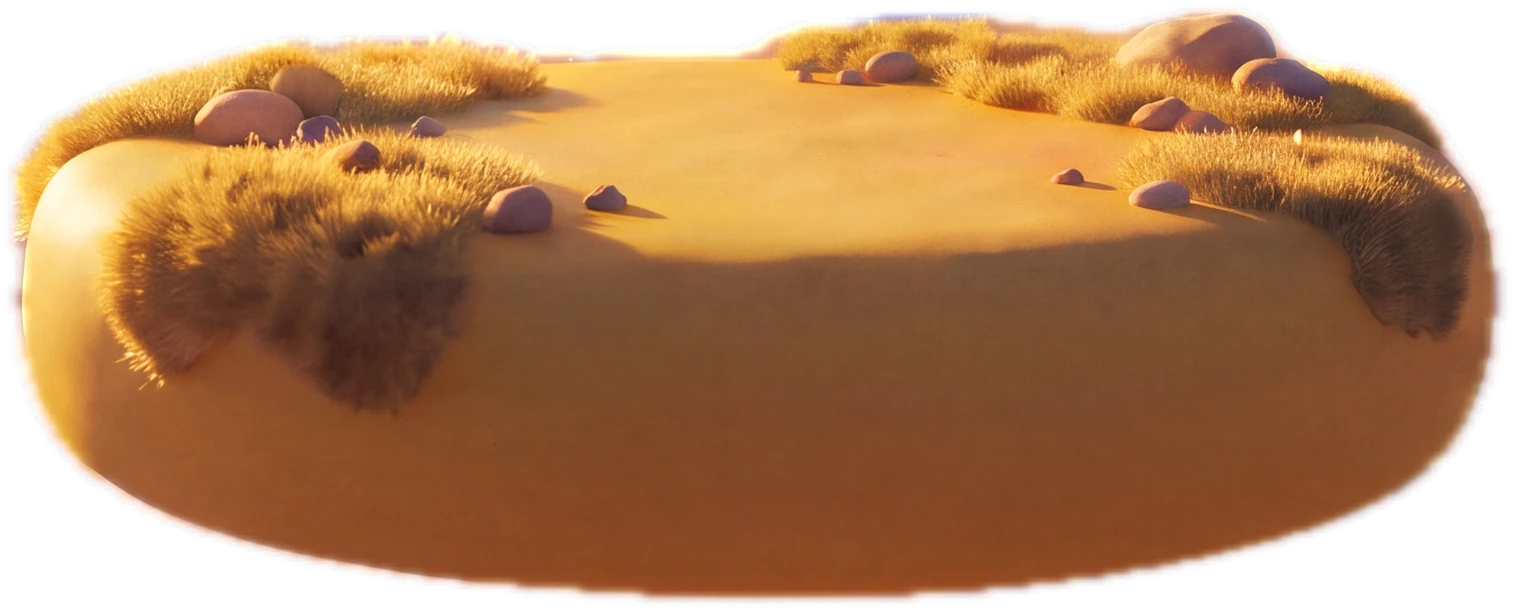
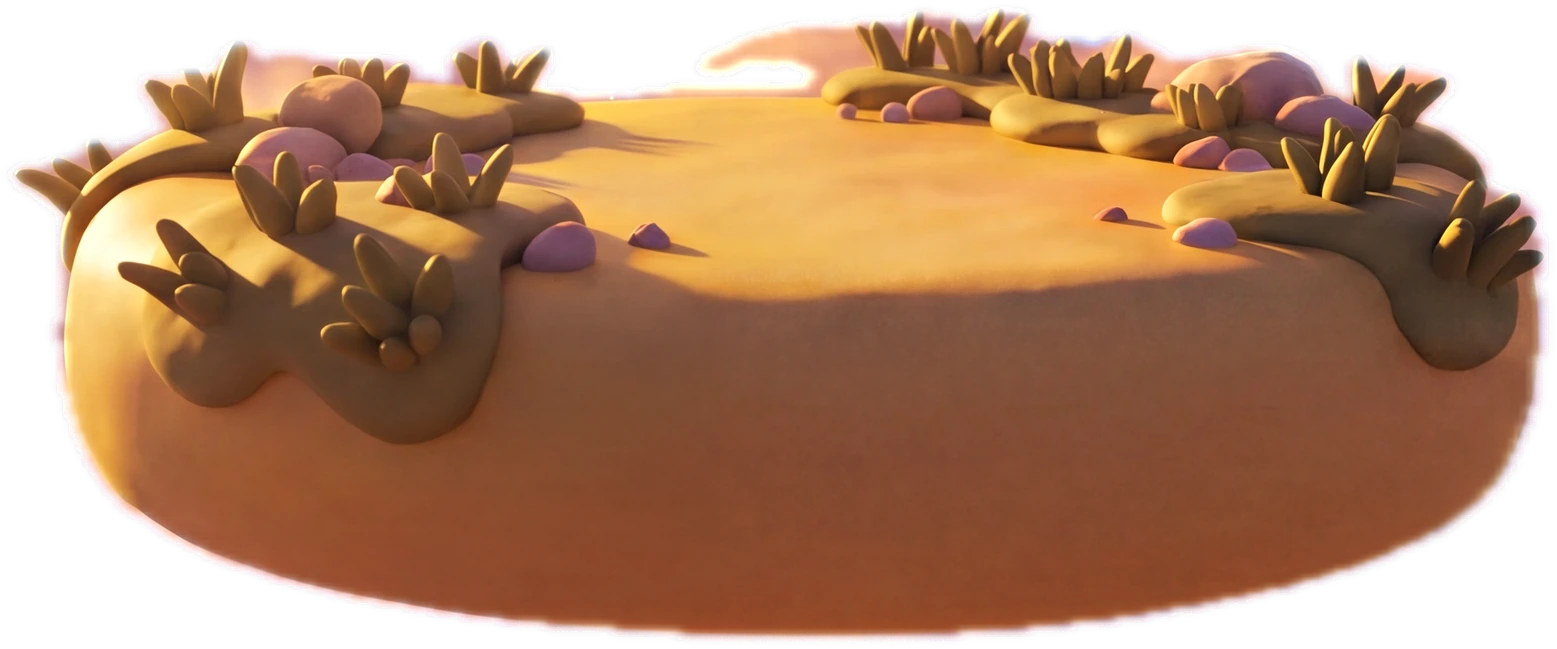
desktop: title polish: crisp subject, clay grass, dithered sky, the name on Ducter's axis
The sun's bloom moves behind the island and Ducter, the settled night no
longer veils the middle, grain is lighter, and the character and island
get a little local contrast. The island's fur-like grass is now sculpted
clay grass (its own plate). The sky is resized in float and dithered
before quantizing, so the dark blue doesn't band. The logotype sits
lower, with air above it, centred on Ducter's axis.

Changed region(s): [[0.0, 0.0, 0.9927, 0.9951], [0.3723, 0.964, 0.4343, 0.9951]]

diff --git a/tools/art/title_layers.py b/tools/art/title_layers.py
@@ -55,7 +55,13 @@ def grade(x):
 
 
 key, empty, sky = (grade(rgb(n)) for n in ("a_island.png", "layers/a_empty.png", "layers/a_sky.png"))
+# The island may come from its own plate (a_island_plate.png: the empty
+# picture with the island restyled, here clay grass for the fur-like
+# grass); Ducter is always matted against a_empty, which matches its key.
+plate = (src / "layers/a_island_plate.png").exists()
+island_img = grade(rgb("layers/a_island_plate.png")) if plate else empty
 m_all, m_island = mask("layers/a-mask-1.png"), mask("layers/empty-mask-1.png")
+m_plate = mask("layers/plate-mask-1.png") if (src / "layers/plate-mask-1.png").exists() else m_island
 H, W, _ = key.shape
 
 # Ducter: in the subject mask and not the island, plus, where it stands on
@@ -128,7 +134,22 @@ def unblend(img, alpha, plate):
 
 
 duc_rgb = unblend(key, a_duc, empty)
-isl_rgb = unblend(empty, m_island, sky)
+isl_rgb = unblend(island_img, m_plate, sky)
+
+
+def clarity(rgb_, alpha, radius=24, amount=0.22):
+    """Local contrast for the subject: an unsharp mask with a wide radius
+    (computed on color premultiplied by alpha, so the edge doesn't pick up
+    the dark outside), so the clay keeps its form under the haze."""
+    pm = np.clip(rgb_ * alpha[..., None], 0, 1)
+    blur = np.stack([np.asarray(Image.fromarray((pm[..., i] * 255).astype(np.uint8)).filter(ImageFilter.GaussianBlur(radius))).astype(np.float32) / 255 for i in range(3)], axis=2)
+    ab = np.asarray(Image.fromarray((alpha * 255).astype(np.uint8)).filter(ImageFilter.GaussianBlur(radius))).astype(np.float32)[..., None] / 255
+    local = blur / np.maximum(ab, 1e-3)
+    return np.clip(rgb_ + amount * (rgb_ - local), 0, 1)
+
+
+duc_rgb = clarity(duc_rgb, a_duc)
+isl_rgb = clarity(isl_rgb, m_plate, radius=30, amount=0.15)
 
 
 def bbox(alpha, pad=8):
@@ -158,9 +179,13 @@ def save_layer(name, color, alpha):
 
 
 layout = {"frame": [width, round(H * s)]}
-Image.fromarray((sky * 255 + 0.5).astype(np.uint8)).resize((width, round(H * s)), Image.LANCZOS).save(
-    out / "sky.webp", quality=94, method=6)
-layout["island"] = save_layer("island", isl_rgb, m_island)
+# The sky is a long, dark gradient: resize in float, then add triangular
+# dither of one 8-bit step before quantizing, so it doesn't band.
+sk = np.stack([np.asarray(Image.fromarray(sky[..., i].astype(np.float32), "F").resize((width, round(H * s)), Image.LANCZOS)) for i in range(3)], axis=2)
+rng = np.random.default_rng(87)
+tri = (rng.random(sk.shape) - rng.random(sk.shape)).astype(np.float32)
+Image.fromarray(np.clip(sk * 255 + 0.5 + tri, 0, 255).astype(np.uint8)).save(out / "sky.webp", quality=95, method=6)
+layout["island"] = save_layer("island", isl_rgb, m_plate)
 layout["ducter"] = save_layer("ducter", duc_rgb, a_duc)
 
 # The eyes: the two biggest dark blobs in Ducter's upper half, found on the

diff --git a/apps/desktop/internal/views/title.go b/apps/desktop/internal/views/title.go
@@ -348,6 +348,12 @@ func (a *App) drawTitle(p *ui.Painter, r ui.Rect) {
 		// The sky, the island.
 		ps := at(0.45)
 		img(art.Sky, ui.Rect{X: ps.ox, Y: ps.oy, W: ps.z, H: FH * ps.z}, 1)
+		// The sun's bloom lives in the sky, behind the island and Ducter,
+		// so the subject stays crisp.
+		sunX, sunY := ps.ox+0.01*ps.z, ps.oy+0.475*FH*ps.z
+		glow(p, r, sunX, sunY, max(W, H)*0.55, 1, []ui.GradientStop{
+			{Color: rgba(255, 200, 140, 0.18*f.exp), At: 0}, {Color: rgba(255, 200, 140, 0), At: 1},
+		})
 		pi := at(1.0)
 		img(art.Island, rectOf(pi, L.Island), 1)
 
@@ -366,12 +372,11 @@ func (a *App) drawTitle(p *ui.Painter, r ui.Rect) {
 		})
 
 		// The night, lifting: darkest away from the sun; a vignette stays.
-		sunX, sunY := ps.ox+0.01*ps.z, ps.oy+0.475*FH*ps.z
 		n := 1 - f.exp
 		far := float32(math.Hypot(float64(W), float64(H)))
 		glow(p, r, sunX, sunY, far*1.1, 1, []ui.GradientStop{
 			{Color: rgba(5, 4, 10, 0.86*n), At: 0},
-			{Color: rgba(5, 4, 10, 0.94*n+0.05*f.exp), At: 0.5},
+			{Color: rgba(5, 4, 10, 0.94*n), At: 0.5},
 			{Color: rgba(5, 4, 10, 0.97*n+0.30*f.exp), At: 1},
 		})
 		vr := far * 0.62
@@ -379,10 +384,7 @@ func (a *App) drawTitle(p *ui.Painter, r ui.Rect) {
 		glow(p, r, r.X+W/2, r.Y+H*0.48, vr, 1, []ui.GradientStop{
 			{Color: rgba(8, 5, 10, 0), At: 0}, {Color: rgba(8, 5, 10, 0), At: inner}, {Color: rgba(8, 5, 10, 0.5*f.exp), At: 1},
 		})
-		// The sun's bloom, and the breath of light at the tone.
-		glow(p, r, sunX, sunY, max(W, H)*0.55, 1, []ui.GradientStop{
-			{Color: rgba(255, 200, 140, 0.18*f.exp), At: 0}, {Color: rgba(255, 200, 140, 0), At: 1},
-		})
+		// The breath of light at the tone.
 		if f.bloom > 0.002 {
 			glow(p, r, dr.X+dr.W/2, dr.Y+dr.H*0.45, dr.W*1.6, 1, []ui.GradientStop{
 				{Color: rgba(255, 226, 180, f.bloom), At: 0}, {Color: rgba(255, 226, 180, 0), At: 1},
@@ -421,7 +423,8 @@ func (a *App) drawTitle(p *ui.Painter, r ui.Rect) {
 			bw, bh := art.Logo.Size()
 			lw := min(W*0.30, 620)
 			lh := lw * float32(bh) / float32(bw)
-			lx, ly := r.X+W/2-lw/2, r.Y+H*0.10+u*0.8*float32(1-outCubic(f.logo))
+			// On Ducter's axis, with air above.
+			lx, ly := dr.X+dr.W/2-lw/2, r.Y+H*0.14+u*0.8*float32(1-outCubic(f.logo))
 			const n = 48
 			sw := float32(bw) / n
 			for i := 0; i < n; i++ {
@@ -455,7 +458,7 @@ func (a *App) drawTitle(p *ui.Painter, r ui.Rect) {
 			oy := float32(int(t*24)%5) * 47
 			for y := r.Y - oy; y < r.Y+H; y += 256 {
 				for x := r.X - ox; x < r.X+W; x += 256 {
-					p.ImageRegion(g, ui.Rect{}, ui.Rect{X: x, Y: y, W: 256, H: 256}, ui.ImageOptions{Tint: rgba(255, 255, 255, 0.03)})
+					p.ImageRegion(g, ui.Rect{}, ui.Rect{X: x, Y: y, W: 256, H: 256}, ui.ImageOptions{Tint: rgba(255, 255, 255, 0.016)})
 				}
 			}
 		}
